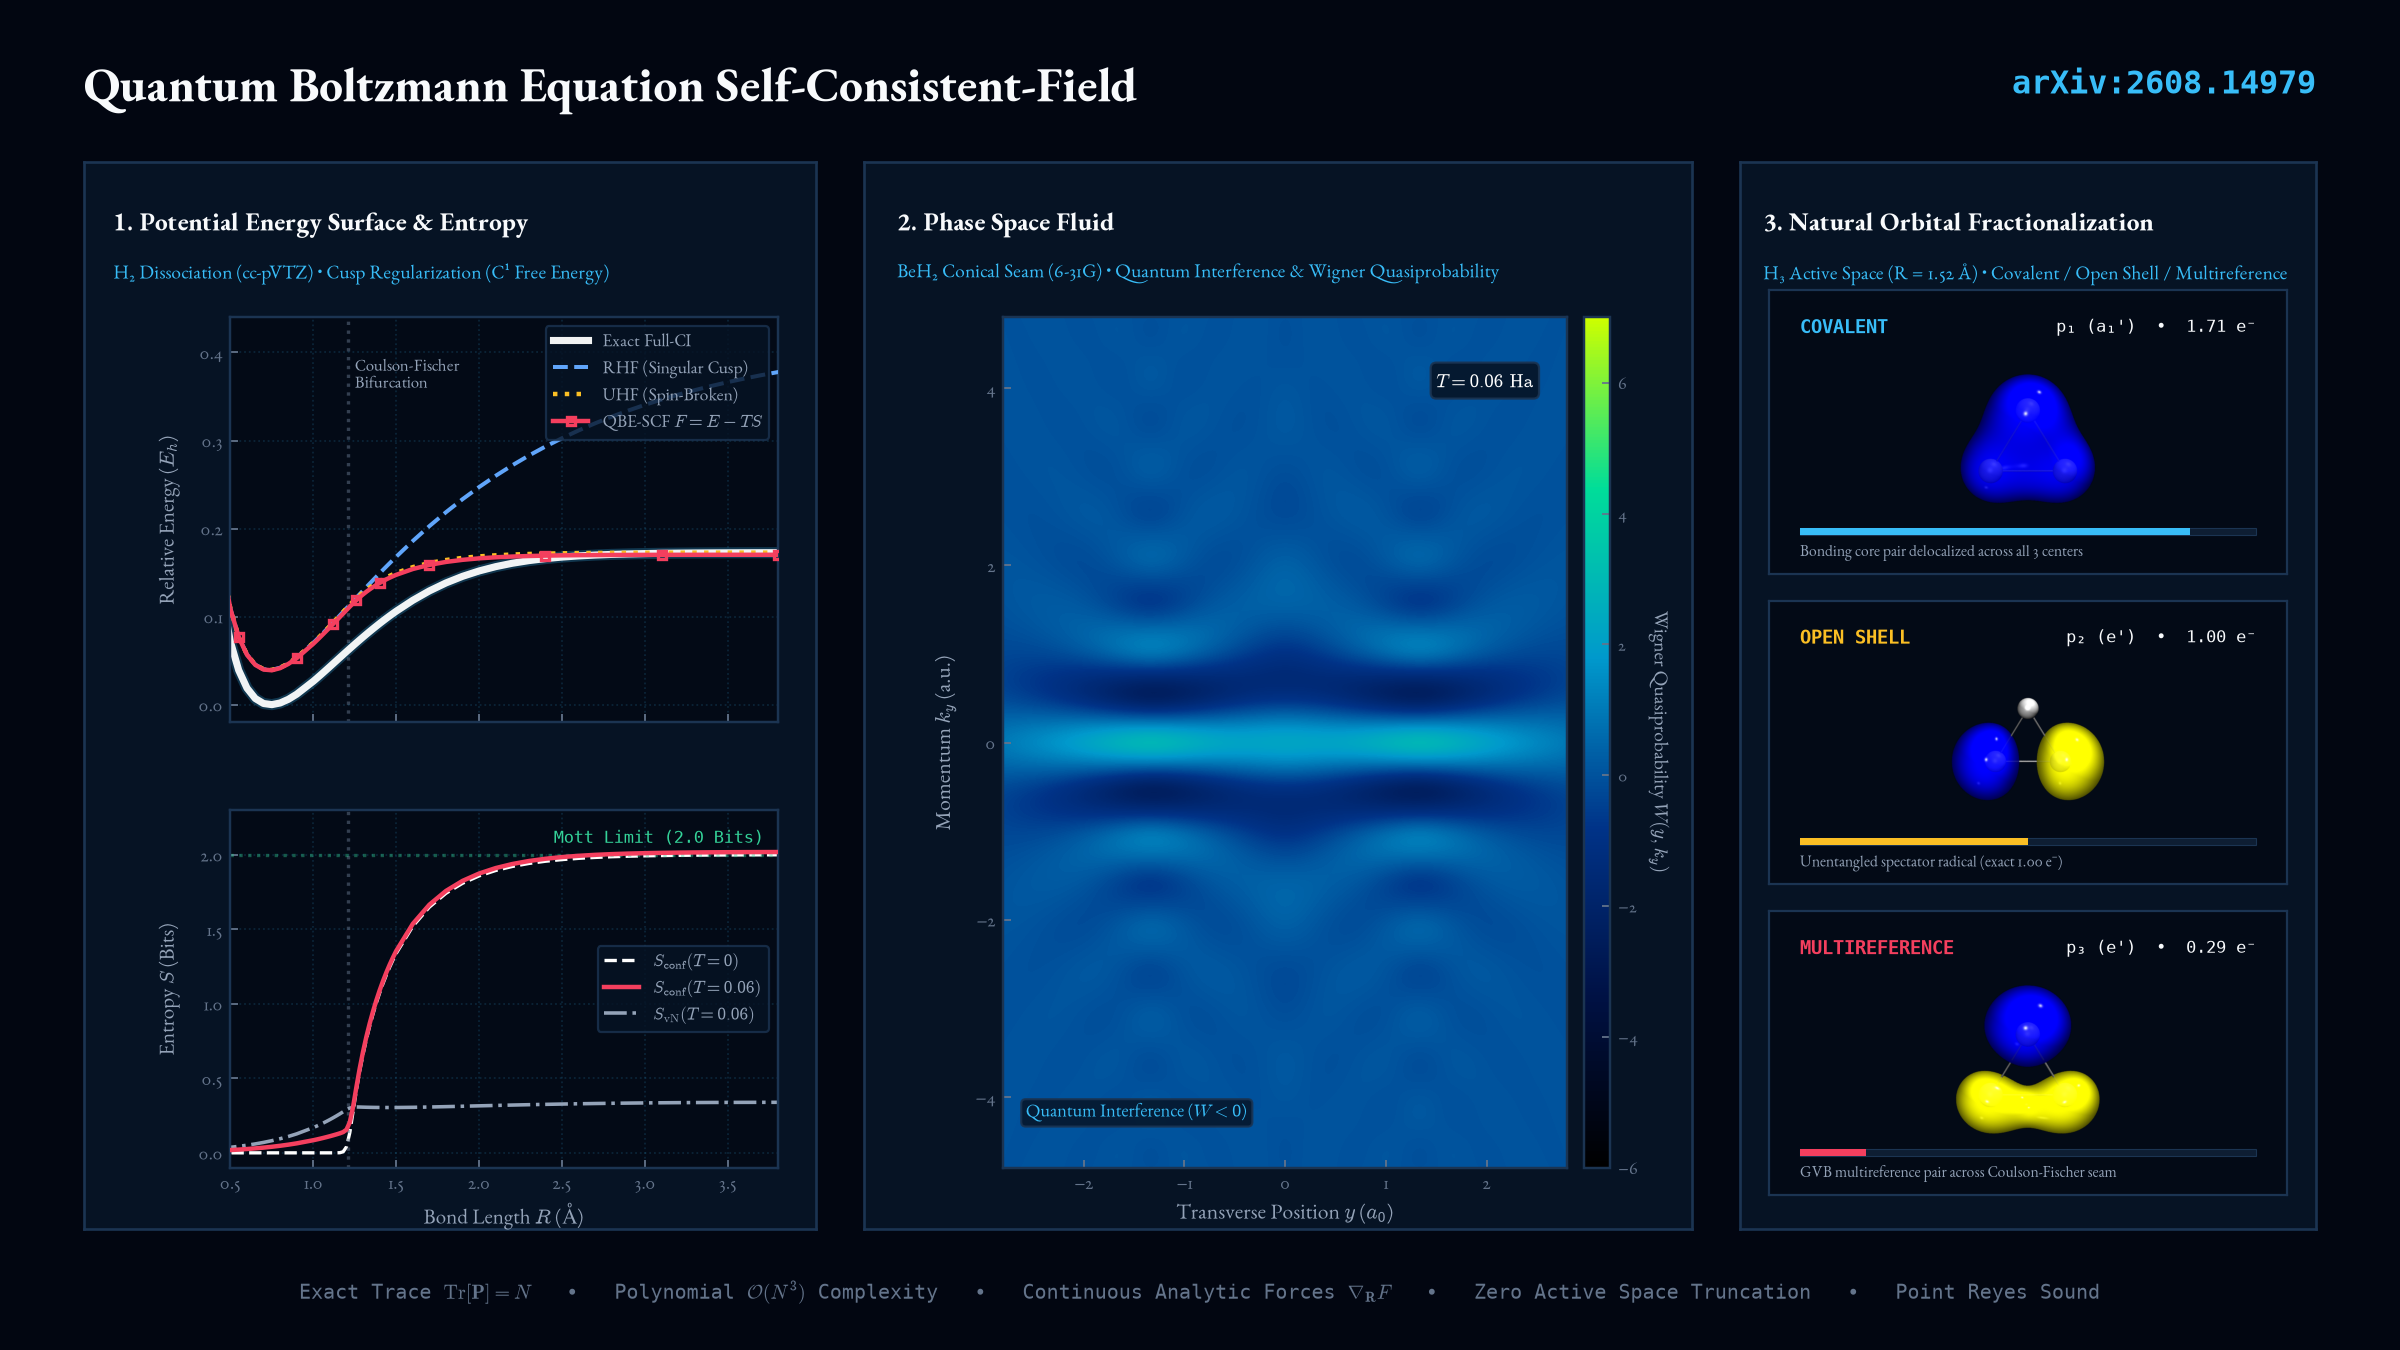
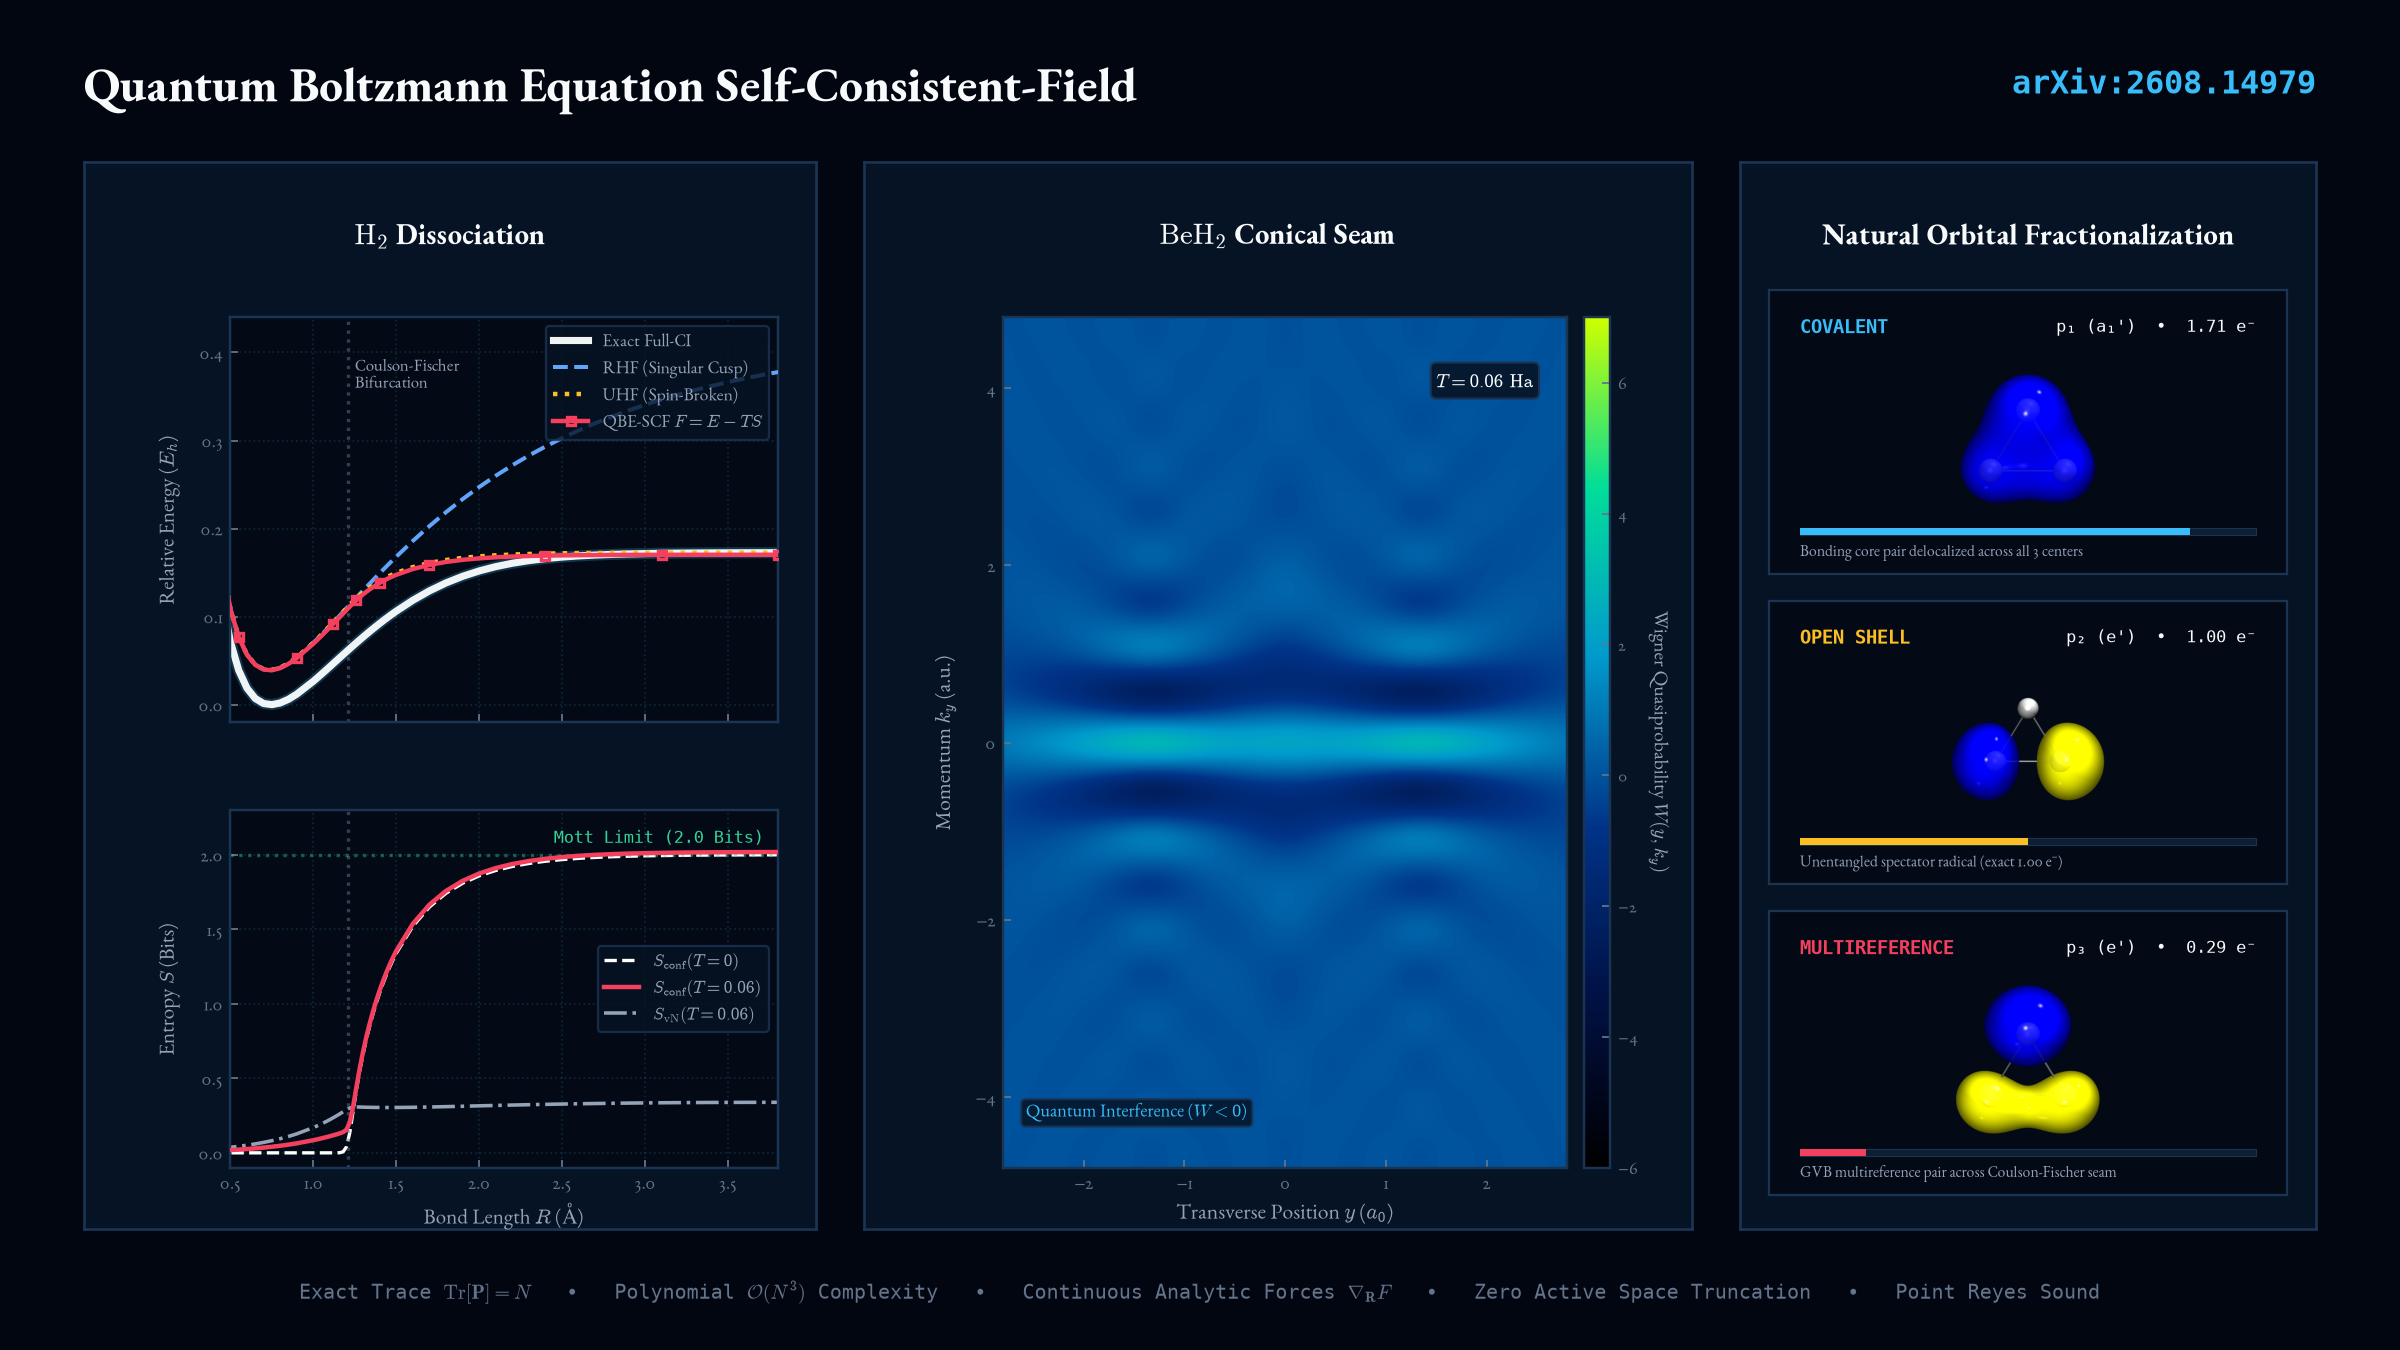
style(marketing): centrally align tile titles and remove blue subheadings

Changed region(s): [[0.375, 0.1556, 0.625, 0.2178], [0.0625, 0.1556, 0.25, 0.2178], [0.75, 0.1556, 0.9375, 0.2178]]

diff --git a/scripts/generate_physical_results_overview.py b/scripts/generate_physical_results_overview.py
@@ -105,8 +105,8 @@ ax_hdr.text(0.0, 0.50, "Quantum Boltzmann Equation Self-Consistent-Field",
 ax_hdr.text(1.0, 0.50, "arXiv:2608.14979",
             color=CYAN_ACCENT, fontsize=14.5, fontfamily='monospace', fontweight='bold', ha='right', va='center')
 
-# Helper to create a styled card container axis
-def create_card_container(x, y, w, h, title, subtitle):
+# Helper to create a styled card container axis with a single centrally aligned title
+def create_card_container(x, y, w, h, title):
     ax_card = fig.add_axes([x, y, w, h])
     ax_card.set_facecolor(CARD_BG)
     for spine in ax_card.spines.values():
@@ -114,19 +114,14 @@ def create_card_container(x, y, w, h, title, subtitle):
         spine.set_linewidth(1.2)
     ax_card.set_xticks([])
     ax_card.set_yticks([])
-    ax_card.text(0.04, 0.96, title, transform=ax_card.transAxes,
-                 color=TEXT_PRIMARY, fontsize=11.5, fontweight='bold', fontfamily='serif', va='top')
-    ax_card.text(0.04, 0.905, subtitle, transform=ax_card.transAxes,
-                 color=CYAN_ACCENT, fontsize=8.8, fontfamily='sans-serif', va='top')
+    ax_card.text(0.50, 0.950, title, transform=ax_card.transAxes,
+                 color=TEXT_PRIMARY, fontsize=13.0, fontweight='bold', fontfamily='serif', ha='center', va='top')
     return ax_card
 
 # =========================================================================
-# COLUMN 1: Potential Energy & Entropy Resolution (Left)
-# Container: x=0.035, w=0.305 (Left border at 0.035, Right border at 0.340)
+# COLUMN 1: H2 Dissociation (Left)
 # =========================================================================
-create_card_container(0.035, 0.09, 0.305, 0.79,
-                      title=r"1. Potential Energy Surface & Entropy",
-                      subtitle=r"H₂ Dissociation (cc-pVTZ) • Cusp Regularization (C¹ Free Energy)")
+create_card_container(0.035, 0.09, 0.305, 0.79, title=r"$\mathrm{H_2}$ Dissociation")
 
 # Internal PES Subplot: x=0.096, w=0.228 -> Labels at x ~ 0.055, fully inside 0.035!
 ax_pes = fig.add_axes([0.096, 0.465, 0.228, 0.30])
@@ -179,12 +174,9 @@ leg_ent = ax_ent.legend(loc='center right', fontsize=7.8, frameon=True, facecolo
 for t in leg_ent.get_texts(): t.set_color(TEXT_SECONDARY)
 
 # =========================================================================
-# COLUMN 2: Phase Space Fluid (Center) - User exact title: "Phase Space Fluid"
-# Container: x=0.360, w=0.345 (Left border at 0.360, Right border at 0.705)
+# COLUMN 2: BeH2 Conical Seam (Center)
 # =========================================================================
-create_card_container(0.360, 0.09, 0.345, 0.79,
-                      title=r"2. Phase Space Fluid",
-                      subtitle=r"BeH₂ Conical Seam (6-31G) • Quantum Interference & Wigner Quasiprobability")
+create_card_container(0.360, 0.09, 0.345, 0.79, title=r"$\mathrm{BeH_2}$ Conical Seam")
 
 # Internal Wigner Plot: x=0.418, w=0.235 -> Labels at x ~ 0.375, fully inside 0.360!
 ax_wig = fig.add_axes([0.418, 0.135, 0.235, 0.63])
@@ -218,15 +210,9 @@ cb.ax.tick_params(labelsize=8, colors=TEXT_MUTED)
 cb.outline.set_edgecolor(CARD_BORDER)
 
 # =========================================================================
-# COLUMN 3: 3D Natural Orbitals with Physical Reality Posited in Paper
-# User: "it should say 'Covalent', 'Open Shell', 'Multireference' and the
-#        figures should speak of the physical reality posited in the paper."
-# User: "use the images in the paper. just pick the right ones and render them professionally!"
-# Container: x=0.725, w=0.240 (Left border at 0.725, Right border at 0.965)
+# COLUMN 3: Natural Orbital Fractionalization (Right)
 # =========================================================================
-create_card_container(0.725, 0.09, 0.240, 0.79,
-                      title=r"3. Natural Orbital Fractionalization",
-                      subtitle=r"H₃ Active Space (R = 1.52 Å) • Covalent / Open Shell / Multireference")
+create_card_container(0.725, 0.09, 0.240, 0.79, title=r"Natural Orbital Fractionalization")
 
 # 3 Orbital Sub-cards showing 'Covalent', 'Open Shell', and 'Multireference'
 orb_configs = [
